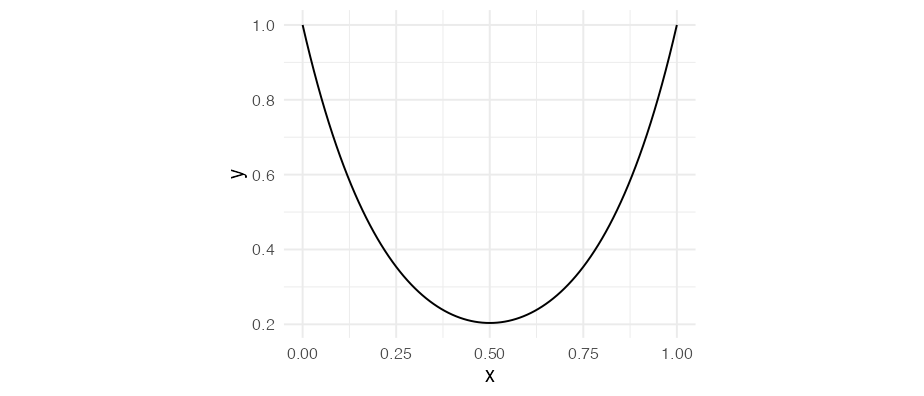
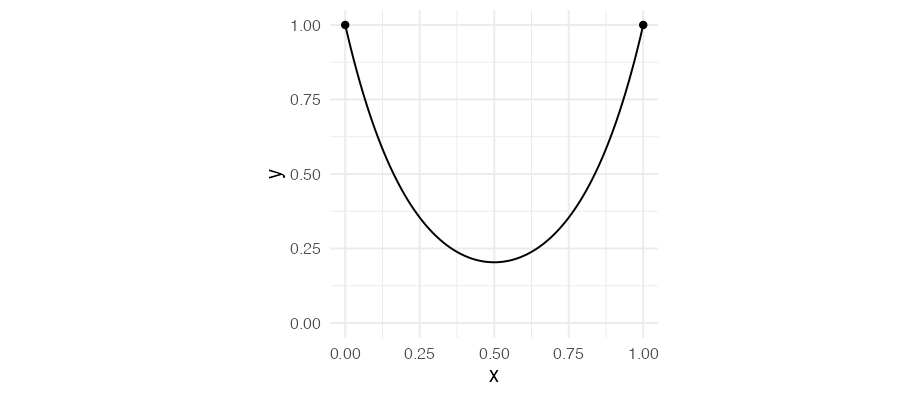
update geom_catenary(), update vignette

diff --git a/README.md b/README.md
@@ -155,6 +155,8 @@ dat <- data.frame(x = c(0, 1), y = c(1, 1))
 
 ggplot(dat, aes(x, y)) +
   geom_catenary() +
+  geom_point() + 
+  ylim(c(0, 1)) +
   coord_equal()
 #> Overall chainLength is 2
 ```
